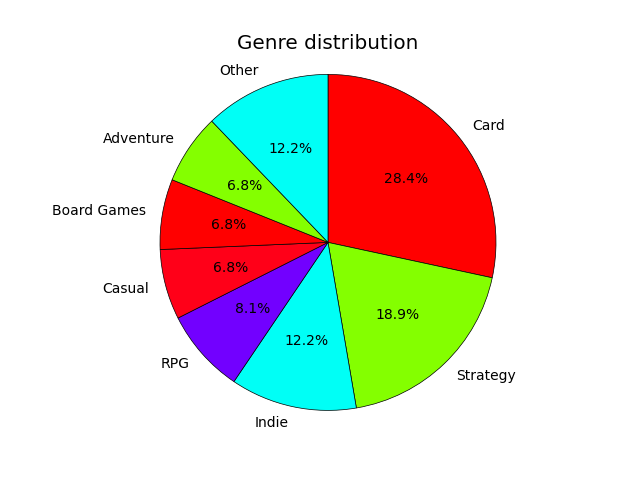
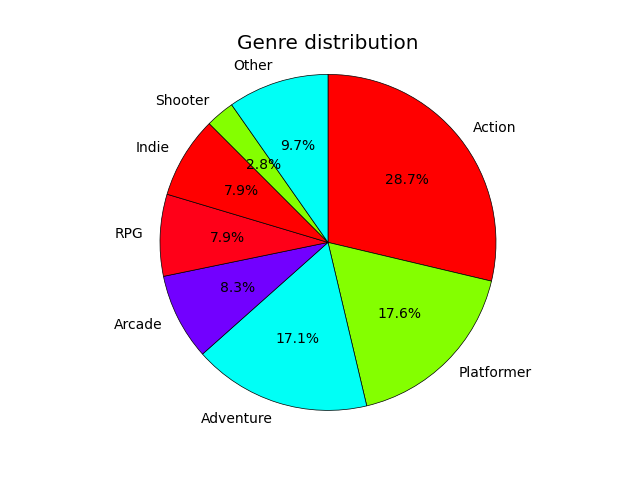
more styling adjustments and a basic text preprocessing for game recommendation queries

diff --git a/templates/search.html b/templates/search.html
@@ -35,11 +35,11 @@
             <div class="results">
               <div class="results-header">
                 {% if query is defined %}
-                    <div class="results-count">{{ results|length }} results for "{{ query }}"</div>
-                    <!-- <div class="extra-actions">
-                        <button class="filter-button">filter</button>
-                        <button class="filter-button">filter</button>
-                    </div> -->
+                <div class="results-count">{{ results|length }} results for "{{ query }}"
+                {% if request.args.get('genre') %}
+                  & genre:{{ request.args.get('genre') }}
+                  {% endif %}
+                </div>
           {% else %}
           <h2>No query :( Type something.</h2>
           {% endif %}
@@ -50,8 +50,7 @@
             {% for game in results %}
             <div class="game-card">
               <img src="{{ game.img }}" alt="{{ game.title }} cover" class="game-thumbnail"
-                onerror="this.onerror=null;this.src='/static/img/placeholder.png';">
-
+                   onerror="this.onerror=null;this.src='{{ url_for('static', filename='img/placeholder.png') }}';">
               <div class="game-info">
                 <a class="game-title" href="{{ url_for('game_details', game_id=game.id) }}">
                   {{ game.name }} ({{ game.date }})
@@ -61,7 +60,7 @@
 
                 <div class="game-genres">
                   {% for g in game.genres.split(",") %}
-                  <a class="genre"
+                  <a class="genre{% if g.strip() in request.args.get('genre', "") %}-hilit{% endif %}"
                     href="{{ url_for('results') }}?genre={{ g.strip()|urlencode }}{% if query %}&query={{ query|urlencode }}{% endif %}{% if request.args.get('literal') %}&literal=literal{% endif %}">
                     {{ g.strip() }}
                   </a>

diff --git a/static/styles/styles.css b/static/styles/styles.css
@@ -46,17 +46,14 @@ body {
 .accent-b {
     color: var(--color-accent-b);
 }
-a:link, a:visited {
+header a:link, header a:visited,
+footer a:link, footer a:visited {
     color: var(--color-mono-w);
     text-decoration: none;
 }
-a:hover {
+header a:hover, footer a:hover {
     text-decoration: underline;
     color: var(--color-mono-w);
-}
-body a:link, body a:visited {
-    color: var(--color-mono-b);
-    text-decoration: none;
 }
 header {
     padding: 5px 25px;
@@ -242,17 +239,23 @@ header {
     flex-wrap: wrap;
     gap: 3px;
 }
-.genre {
+.game-genres a:link {
+    color: var(--color-mono-b);
+    text-decoration: none;
+}
+.genre, .genre-hilit {
     font-size: 0.7em;
     background-color: var(--color-accent-lr);
     border-radius: 5px;
     padding: 2px 8px 0px 8px;
 }
-.genre:hover {
-    font-size: 0.73em;
+.genre-hilit {
     background-color: var(--color-accent-r);
     color: var(--color-mono-w);
-    transition: 0.1s ease;
+}
+.genre:hover, a.genre:hover {
+    background-color: var(--color-accent-dr);
+    color: var(--color-mono-w);
 }
 
 .game-rating {

diff --git a/static/styles/styles-games.css b/static/styles/styles-games.css
@@ -152,12 +152,15 @@ h1 {
     color: var(--color-mono-b);
 }
 .rec-title {
-    margin-top: 6px;
+    margin: 6px 8px;
     color: var(--color-mono-b);
-    white-space: nowrap;
-    overflow: hidden;
-    text-overflow: ellipsis; /* truncate long titles */
+    flex-wrap: wrap;
+    text-decoration: none;
 }
+.rec-title:hover {
+    text-decoration: underline;
+}
+
 /* .body-container h1 { */
 /*     margin-bottom: 10px; */
 /* } */

diff --git a/templates/game_details.html b/templates/game_details.html
@@ -34,8 +34,8 @@
     <div class="game-image">
       <img src="{{ game.img }}" 
           alt="{{ game.name }} cover" 
-          class="game-cover"
-          onerror="/static/img/placeholder.png">
+           class="game-cover"
+           onerror="this.onerror=null;this.src='{{ url_for('static', filename='img/placeholder.png') }}';">
     </div>
     {% endif %}
     <div class="game-layout">

diff --git a/app.py b/app.py
@@ -3,6 +3,12 @@ import src.searchEngine as engine
 from src.database import close_db, plot_ratings, plot_genre_pie
 from pprint import pprint
 import markdown
+import re
+
+# TODO: maybe change this (and quick_preprocess)
+# Very simple preprocessing, the naive "take the first 1000 chars from the description works fine and the results are as expected, but I thought some basic text preprocessing might make it better
+PUNCT_RE = re.compile(r"[^\w\s]")
+STOPWORDS = {"the","and","a","an","of","in","on","to","at","from"}  # minimal set of stopwords for basic text preprocessing
 
 app = Flask(__name__)
 
@@ -29,6 +35,24 @@ def query_backend(query, mode):
         results[-1]["id"] = i
 
     return results
+
+def quick_preprocess(text):
+    """Function for very basic text preprocessing, used in game details query to search for similar game recommendations.
+
+    Args:
+        text (str): the string to process
+    Returns:
+        text (str): the processed string
+    """
+    
+    text = text.lower()
+
+    text = PUNCT_RE.sub("", text) # removes punctuation
+
+    tokens = text.split()
+    tokens = [t for t in tokens if t not in STOPWORDS]
+
+    return " ".join(tokens)
 
 
 @app.teardown_appcontext
@@ -87,7 +111,8 @@ def results():
 
     results = query_backend(query, query_mode)
     genre = (request.args.get("genre") or "").strip()
-    if genre: # this seems to filter the search by genres which is good
+    
+    if genre:
         gl = genre.lower()
         results = [
             r for r in results
@@ -122,12 +147,13 @@ def game_details(game_id):
     game = df_game.iloc[0].to_dict()
     game["id"] = game_id
 
+    # still using a shortened description, but I made a very basic preprocessing function to maybe fit more content into the query
+    # this comes before markdown so the text doesn't have the html formatting
+    short_desc = quick_preprocess(game["desc"][:2000])
+    
     game["desc"] = markdown.markdown(game["desc"])
-
-    # TODO: change this, I am going to do something very ugly and inefficient
-    # naive recommendation system, takes the first 500 chars of the description and shoves it into a neural search
-    # TODO maybe some text cleaning before encoding
-    similar = query_backend(game["desc"][:1000], False)  # use neural search for recommendations
+    
+    similar = query_backend(short_desc[:1000], False)  # use neural search for recommendations
     if len(similar) < 1:
         return render_template("game_details.html", game=game, similar=similar)
 
